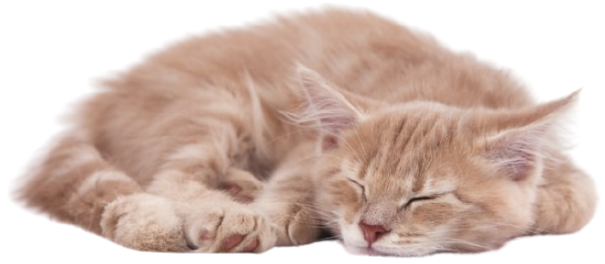
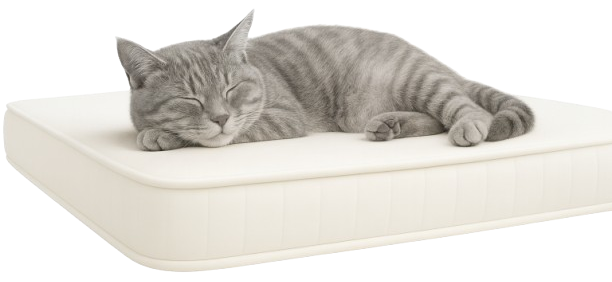
Change hero cat photo, decrease the carousel scroll step

diff --git a/src/pages/Home.jsx b/src/pages/Home.jsx
@@ -118,7 +118,6 @@ const Home = () => {
     },
   ];
 
-  // Benefit items с иконками из lucide-react
   const benefits = [
     {
       id: 1,
@@ -152,7 +151,7 @@ const Home = () => {
   // Скролл по кнопкам
   const scroll = (direction) => {
     if (carouselRef.current) {
-      const scrollAmount = 350;
+      const scrollAmount = 305;
       const newScrollLeft =
         direction === "left"
           ? carouselRef.current.scrollLeft - scrollAmount
@@ -226,7 +225,6 @@ const Home = () => {
 
   return (
     <div className="home">
-      {/* HERO */}
       <section className="hero">
         <div className="container">
           <div className="hero__content">
@@ -249,7 +247,6 @@ const Home = () => {
         </div>
       </section>
 
-      {/* QUICK SELECTION */}
       <section className="quick-selection">
         <div className="container">
           <h2 className="section-title">Швидкий підбір</h2>
@@ -274,7 +271,6 @@ const Home = () => {
         </div>
       </section>
 
-      {/* POPULAR PRODUCTS */}
       <section className="popular-products">
         <div className="container">
           <div className="popular-products__header">
@@ -328,7 +324,6 @@ const Home = () => {
         </div>
       </section>
 
-      {/* BENEFITS */}
       <section className="benefits">
         <div className="container">
           <h2 className="section-title">Чому обирають нас</h2>
@@ -353,7 +348,6 @@ const Home = () => {
         </div>
       </section>
 
-      {/* CTA */}
       <section className="cta">
         <div className="container">
           <div className="cta__content">

diff --git a/src/styles/pages/_home.scss b/src/styles/pages/_home.scss
@@ -107,10 +107,10 @@
 
   &__image {
     position: absolute;
-    right: 5%;
+    right: 8%;
     top: 70%;
     transform: translateY(-50%);
-    width: 400px;
+    width: 450px;
     max-width: 460px;
     z-index: 0;
 
